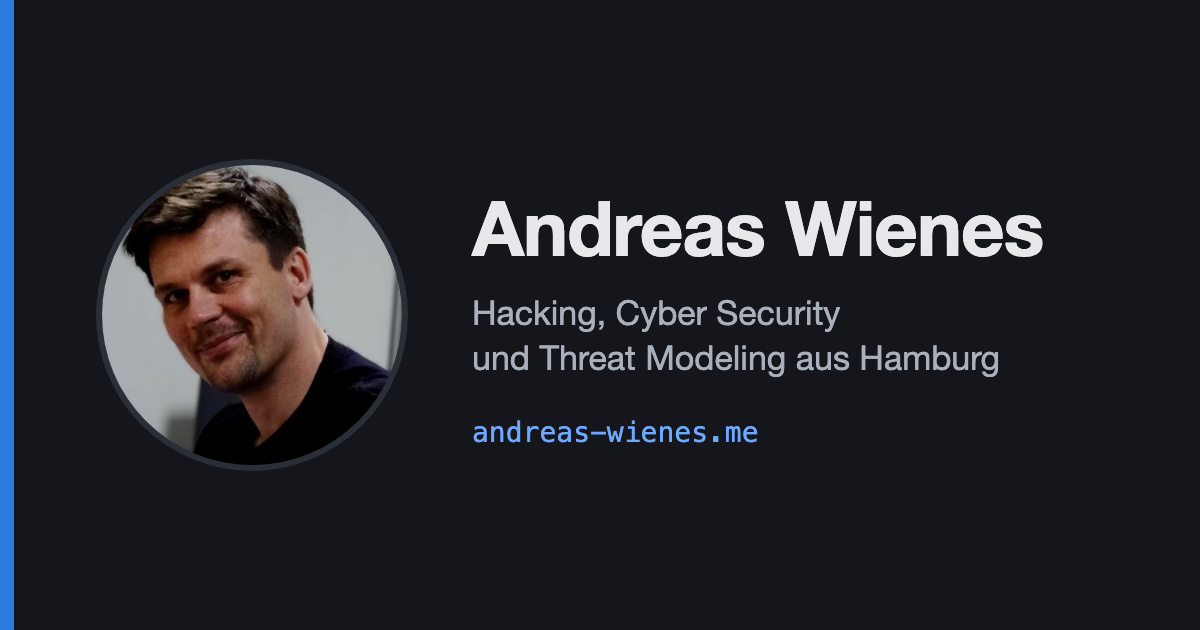
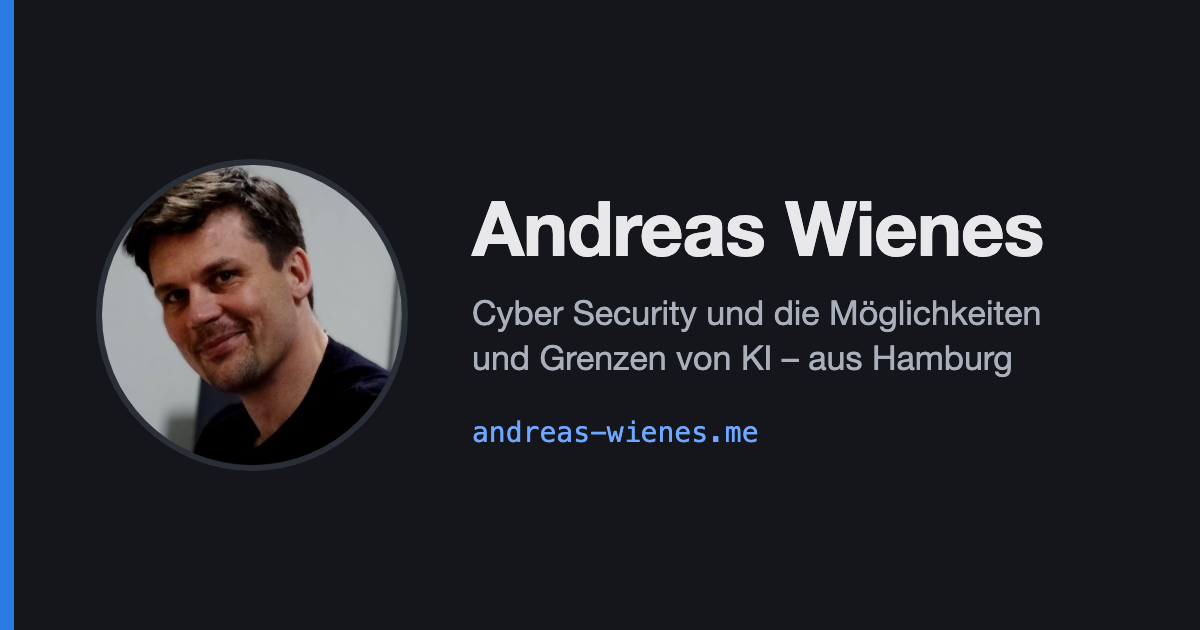
Inhalt überarbeitet: Über mich auf Deutsch, Angebot entfernt
- Über mich neu: fachliche Führung des operativen Cyber-Security-Teams
  bei Hamburg Wasser, defensiver Schwerpunkt, KI als zweites Thema,
  offensive Vergangenheit als Einordnung der älteren Artikel
- Tab Angebot entfernt, /my-offer/ leitet auf /about-me/ weiter
  (jekyll-redirect-from)
- HTB-/THM-Badges entfernt, Willkommensbeitrag auf Deutsch
- Untertitel, Beschreibung und Vorschaubild an neuen Schwerpunkt angepasst

Changed region(s): [[0.4008, 0.4825, 0.8633, 0.6032]]

diff --git a/_tabs/about-me.md b/_tabs/about-me.md
@@ -3,38 +3,37 @@ title: Über mich
 icon: fas fa-user
 order: 1
 permalink: /about-me/
+redirect_from:
+  - /my-offer/
 ---
 
+## Hallo 👋
 
-## Hello 👋
+Ich bin **Andreas** und lebe in Hamburg. Bei [Hamburg Wasser](https://www.hamburgwasser.de/) bin ich für die fachliche Führung des operativen Cyber-Security-Teams zuständig – ich bin also auf der verteidigenden Seite unterwegs: Angriffe erkennen, Systeme schützen, im Ernstfall richtig reagieren.
 
-My name is **Andreas** and I'm a [Hacker]({% post_url 2021-10-13-why-I-call-myself-a-hacker %}). I love to learn new things and use my skills to test IT systems for security flaws and bugs. I live in Hamburg, Germany and work at Hamburg Wasser as a cyber security engineer.
+Neben Cyber Security beschäftige ich mich mit den **Möglichkeiten und Grenzen von künstlicher Intelligenz** – was sie heute wirklich kann, wo sie scheitert und was sie für die Sicherheit bedeutet.
 
-### My Expertise
-- Penetration Testing
-- Bug Bounty Hunting
-- Web Application Security
-- Mobile Application Security (Android)
-- AWS Cloud Security
-- IT Security Trainings
-- Threat Modelling
+## Woher ich komme
 
-### Get in Contact
-📫 You can contact me via
-- Mastodon: <https://infosec.exchange/@AndreasWienes>
-- Mail: mail \[at\] wienes \[dot\] com
+Angefangen habe ich offensiv: Ich habe Penetrationstests gemacht, an Bug-Bounty-Programmen und CTFs teilgenommen und Sicherheitslücken gesucht, bevor es andere tun. Davon erzählen die älteren Artikel hier. Warum ich mich trotzdem bis heute [Hacker]({% post_url 2021-10-13-why-I-call-myself-a-hacker %}) nenne, steht in einem eigenen Beitrag.
+
+Dieser Blick des Angreifers hilft mir heute in der Verteidigung – zum Beispiel bei der [Bedrohungsanalyse]({% post_url 2023-05-25-Bedrohungsanalyse-Eine-kurze-Einführung-in-das-Threat-Modeling %}).
+
+## Worüber ich mich gern austausche
+
+- Operative Cyber Security und die fachliche Führung eines Security-Teams
+- Threat Modeling und Sicherheit von Anfang an
+- KI: Was sie leisten kann, wo ihre Grenzen liegen und welche neuen Risiken sie bringt
+
+## Kontakt
+
+📫 Am besten erreichst du mich über
+
 - LinkedIn: <https://www.linkedin.com/in/andreas-wienes-cyber-security/>
+- Mastodon: <https://infosec.exchange/@AndreasWienes>
+- E-Mail: mail \[at\] wienes \[dot\] com
 
-## Professional Achievements
+## Zertifikate
 
-![Certified Ethical Hacker](/assets/img/CEH_2E345519D3F7.webp){: .left width="200" height="200"}
-
-[Certified Ethical Hacker (CEH) – Nachweis bei Credly](https://www.credly.com/badges/1da86fa7-a361-43c0-bf12-b8728050c664)
-
-[Pentester Academy Certified Cloud Security Professional (PACSP)](https://bootcamps.pentesteracademy.com/course/cloud-security-aws-on-demand)
-
-#### Hack The Box
-[Profil bei Hack The Box](https://app.hackthebox.com/profile/205798)
-
-#### TryHackMe
-[Profil bei TryHackMe](https://tryhackme.com/)
+- [Certified Ethical Hacker (CEH)](https://www.credly.com/badges/1da86fa7-a361-43c0-bf12-b8728050c664)
+- [Pentester Academy Certified Cloud Security Professional (PACSP)](https://bootcamps.pentesteracademy.com/course/cloud-security-aws-on-demand)

diff --git a/_posts/2021-10-13-pinned-welcome.md b/_posts/2021-10-13-pinned-welcome.md
@@ -1,6 +1,5 @@
 ---
-title: 📌 Welcome!
-lang: en
+title: 📌 Willkommen!
 date: 2021-10-13 14:28:55 +0100
 categories: [META]
 mermaid: false
@@ -8,6 +7,6 @@ pin: true
 toc: false
 ---
 
-If you're new here, why don't you check out the [**about page**](https://andreas-wienes.me/about-me/) to get to know me better?
+Schön, dass du hier bist! Ich schreibe über **Cyber Security** und die **Möglichkeiten und Grenzen von KI**. Die älteren Artikel stammen aus meiner offensiven Zeit mit Pentests, Bug Bounty und CTFs – manche davon auf Englisch.
 
-You will find some general information about me as well as ways to contact me.
+Wer ich bin und wie du mich erreichst, steht auf der Seite [Über mich](/about-me/).
